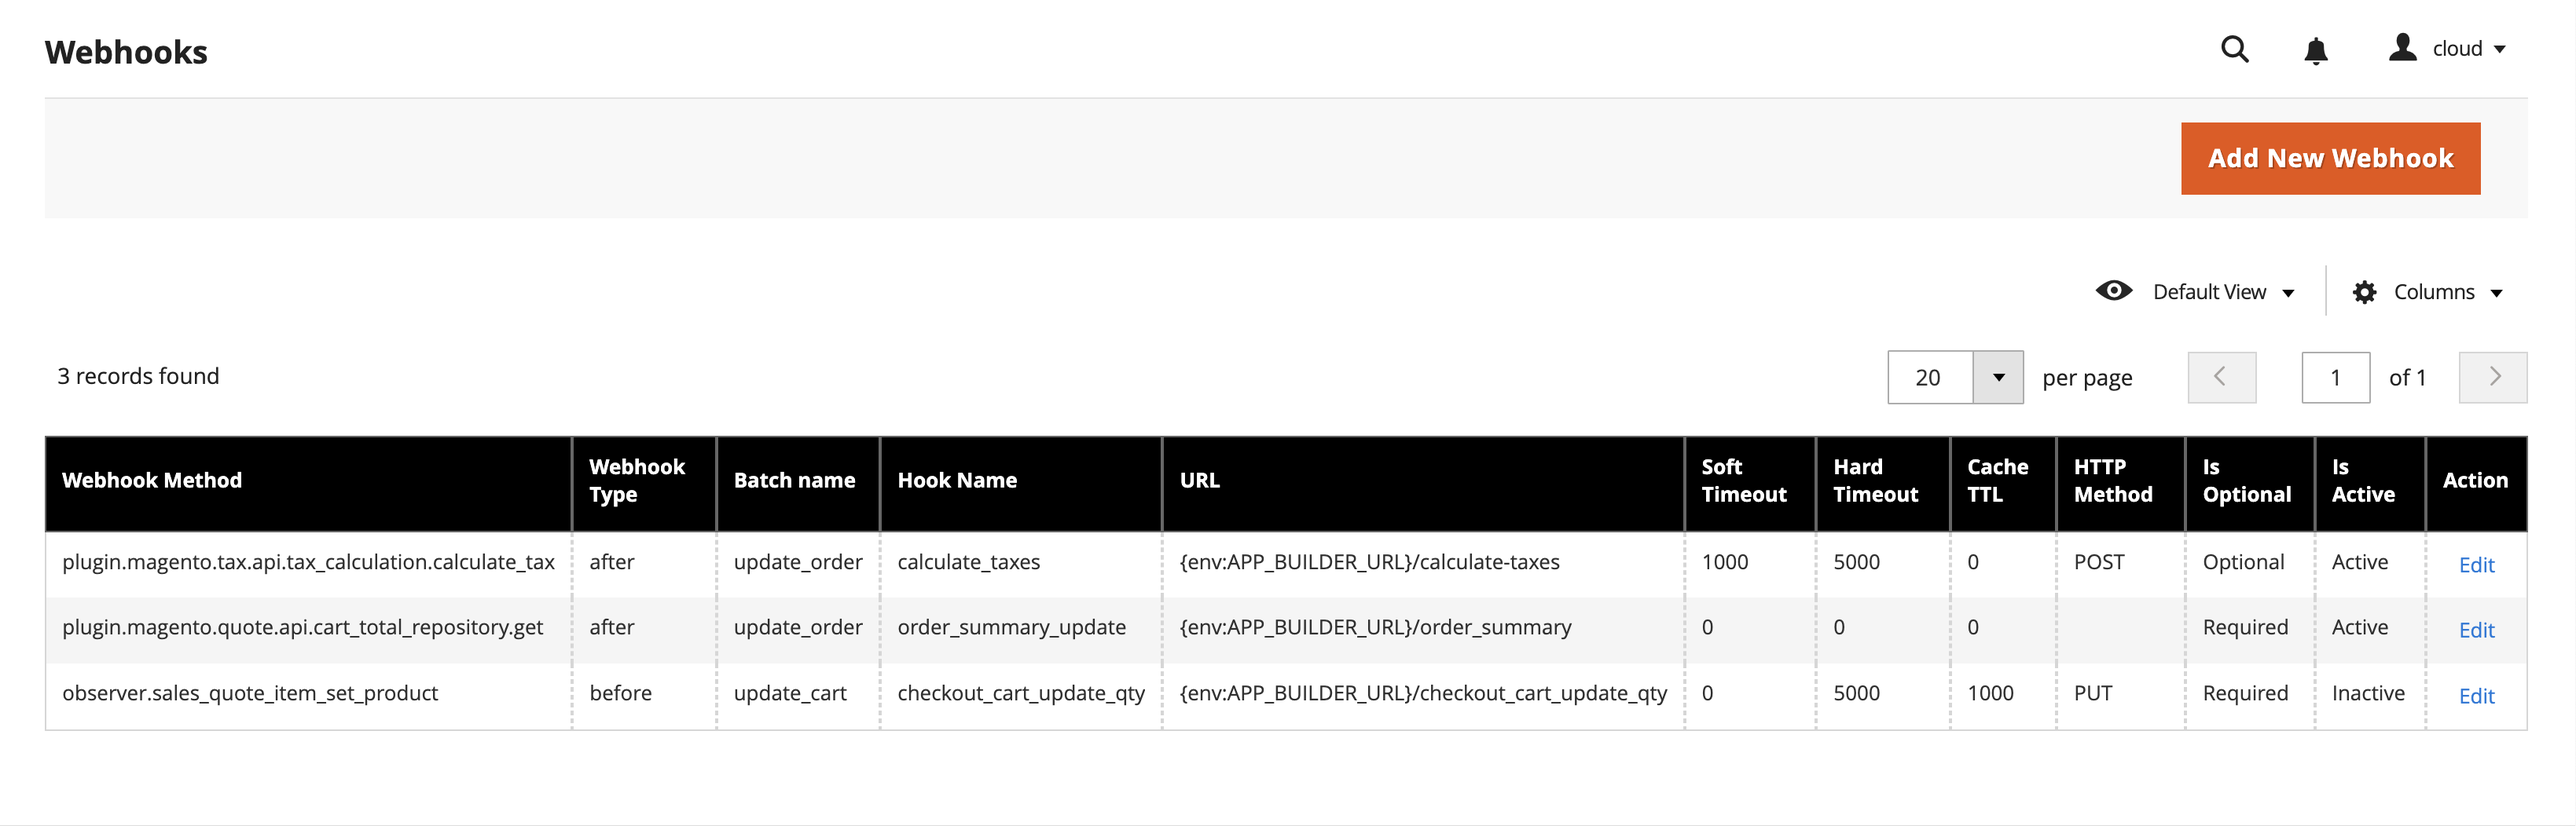
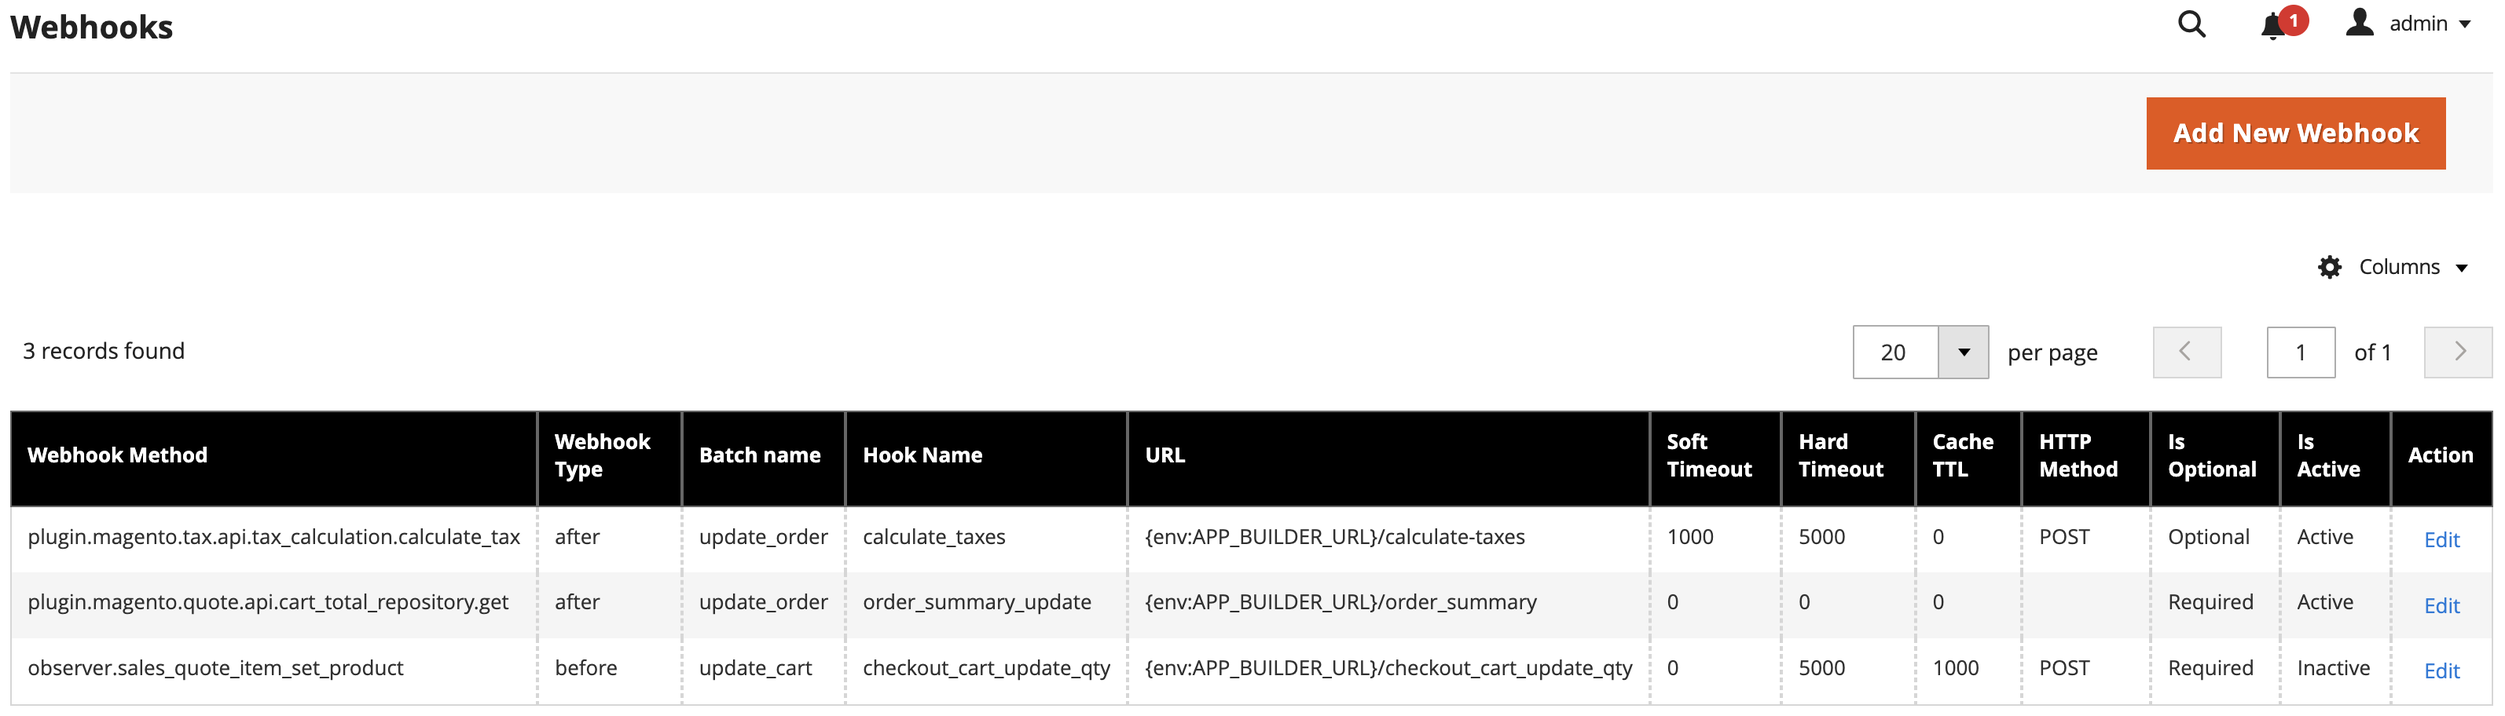
Updates for bookmark removal

diff --git a/src/pages/webhooks/release-notes.md b/src/pages/webhooks/release-notes.md
@@ -22,7 +22,7 @@ March 18, 2024
 ### Bug fixes
 
 * Fixed integration test errors. <!--- CEXT-2920 -->
-* Fixed an error that occurred when loading the webhooks admin grid. <!--- CEXT-2941 -->
+* Removed the **Default View** drop down menu from the **Webhooks** page of the Admin. <!--- CEXT-2941 -->
 
 ## Version 1.2.0
 
